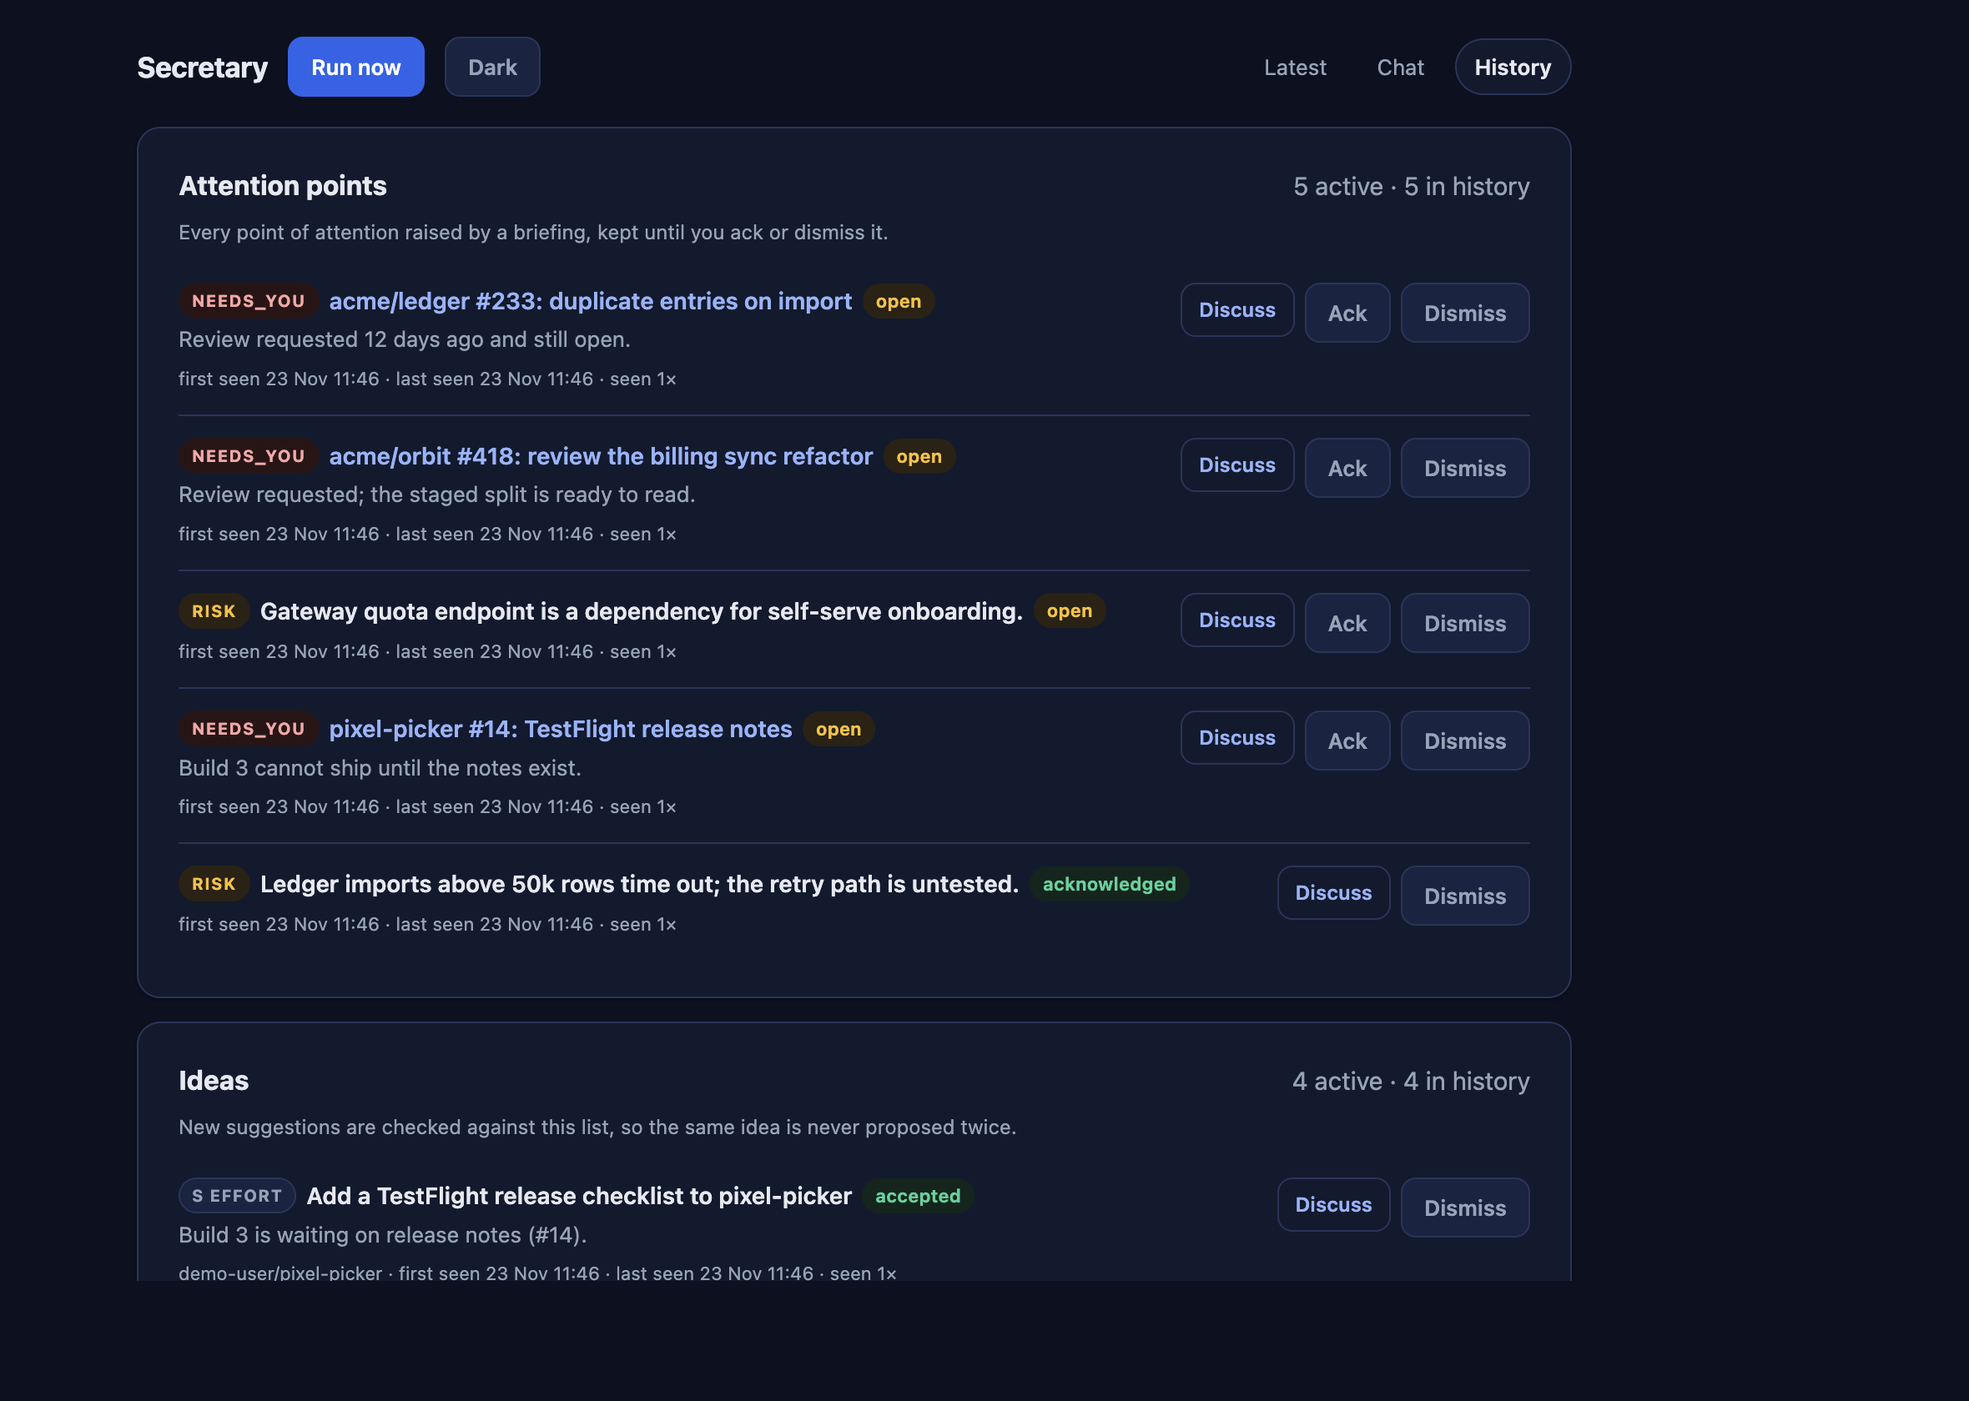
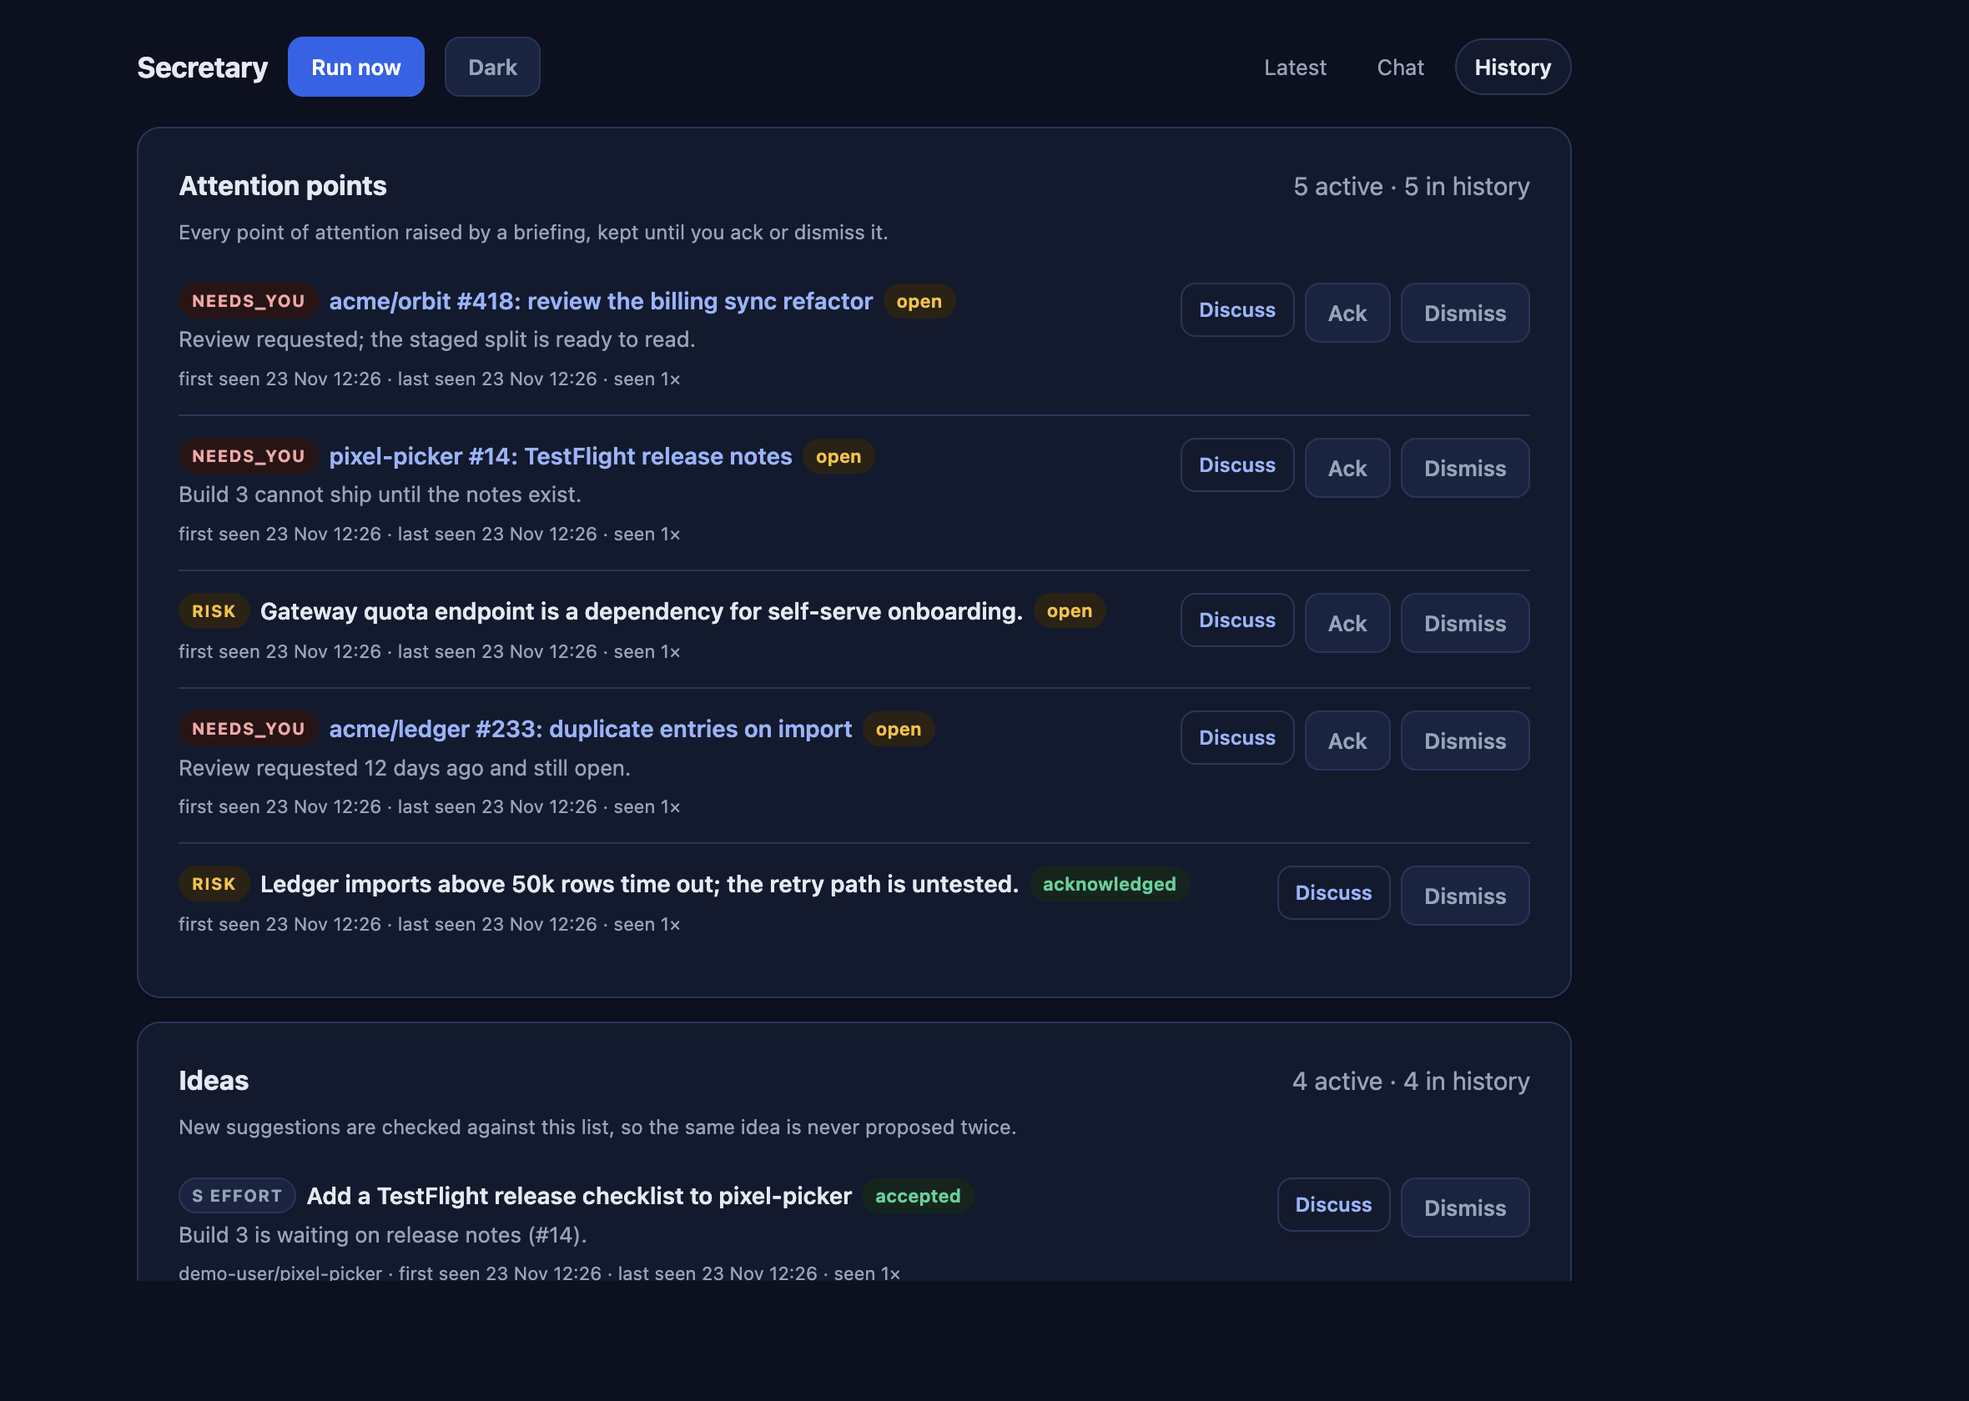
Make every briefing entry a conversation starter
Each needs-you row, project, idea, risk and next action now gets a Discuss
button that opens its own thread. Project/risk/action threads are stored as
topic files with a stable id derived from the text, so links survive a new
briefing; chat falls back to the current digest for older ones.

diff --git a/monitor/chat.py b/monitor/chat.py
@@ -18,8 +18,8 @@ Rules:
 - Be concise: one short paragraph or a few bullets, at most ~200 words. No praise, no filler.
 - Ground every statement in the provided context. If it is not there, say so; never invent
   PR/issue numbers, CI results, merge status or dates.
-- `focus` is what this thread is about (an idea, an alert, an item, or null for general chat).
-  Answer about it first, then widen to related work.
+- `focus` is what this thread is about (an idea, an alert, an item, a project, a risk or a
+  next action; null for general chat). Answer about it first, then widen to related work.
 - Alerts are the ongoing points of attention; ideas are tracked suggestions. Their status and
   history (first seen, last seen, how often) are in the context — use them.
 - Emit actions ONLY when he asks you to remember something. A question deserves no action.
@@ -42,7 +42,7 @@ def open_state(cfg):
 
 
 def parse_thread(thread: str) -> tuple[str, str]:
-    for prefix in ("item", "idea", "alert"):
+    for prefix in ("item", "idea", "alert", "topic"):
         if thread.startswith(prefix + ":"):
             return prefix, thread[len(prefix) + 1 :]
     return "general", ""
@@ -56,6 +56,8 @@ def thread_object(state, thread: str) -> dict | None:
         return state.idea(ref)
     if kind == "alert":
         return state.alert(ref)
+    if kind == "topic":
+        return state.topic(ref)
     return None
 
 
@@ -64,10 +66,15 @@ def thread_label(state, thread: str) -> str:
         return "General"
     kind, ref = parse_thread(thread)
     obj = thread_object(state, thread)
+    if obj is None and kind == "topic":
+        obj = topic_from_digest(_latest_digest(state), ref)
     if obj:
         title = (obj.get("title") or ref)[:80]
         if kind == "item":
             return f"{obj.get('repo')}#{obj.get('number')} · {title[:70]}"
+        if kind == "topic":
+            topic_kind = obj.get("kind") or ref.split(":", 1)[0]
+            return f"{topic_kind.title()} · {title}"
         return f"{kind.title()} · {title}"
     return f"{kind.title()} · {ref}"
 
@@ -140,9 +147,34 @@ def _trim_idea(record: dict) -> dict:
     }
 
 
+def topic_from_digest(payload: dict | None, ref: str) -> dict | None:
+    """Resolve a topic thread from the current briefing when no topic file exists yet."""
+    if not payload:
+        return None
+    digest = payload.get("digest") or {}
+    kind = ref.split(":", 1)[0]
+    if kind == "project":
+        for project in digest.get("projects") or []:
+            name = project.get("name") or "Project"
+            if store_mod.topic_key("project", name) == ref:
+                return {"kind": "project", "title": name, "payload": project, "seen_count": 1}
+    elif kind == "risk":
+        for risk in digest.get("risks") or []:
+            if store_mod.topic_key("risk", risk) == ref:
+                return {"kind": "risk", "title": risk, "payload": {"text": risk}, "seen_count": 1}
+    elif kind == "action":
+        for action in digest.get("next_actions") or []:
+            if store_mod.topic_key("action", action) == ref:
+                return {"kind": "action", "title": action, "payload": {"text": action}, "seen_count": 1}
+    return None
+
+
 def build_context(cfg, state, thread: str) -> dict:
     kind, ref = parse_thread(thread)
+    digest_payload = _latest_digest(state)
     focus = thread_object(state, thread)
+    if focus is None and kind == "topic":
+        focus = topic_from_digest(digest_payload, ref)
     repo = ""
     if focus:
         repo = focus.get("repo") or ""
@@ -153,17 +185,32 @@ def build_context(cfg, state, thread: str) -> dict:
         for message in state.messages(thread, limit=10)
         if message.get("status") == "ok"
     ]
+    focus_view = None
+    if focus:
+        if kind == "alert":
+            focus_view = {"kind": "alert", "record": _trim_alert(focus)}
+        elif kind == "idea":
+            focus_view = {"kind": "idea", "record": _trim_idea(focus)}
+        elif kind == "topic":
+            focus_view = {
+                "kind": focus.get("kind", "topic"),
+                "topic": focus.get("title"),
+                "seen_count": focus.get("seen_count"),
+                "payload": focus.get("payload") or {},
+            }
+            if focus.get("alert_id"):
+                alert_record = state.alert(focus["alert_id"])
+                if alert_record:
+                    focus_view["alert"] = _trim_alert(alert_record)
+        else:
+            focus_view = {"kind": kind, "record": focus}
     return {
         "now": store_mod.now_iso(),
         "login": cfg.get("identity.login"),
         "thread": thread,
-        "focus": (
-            {"kind": kind, "record": _trim_alert(focus) if kind == "alert" else _trim_idea(focus) if kind == "idea" else focus}
-            if focus
-            else None
-        ),
+        "focus": focus_view,
         "related_items": related,
-        "briefing": _trim_digest(_latest_digest(state)),
+        "briefing": _trim_digest(digest_payload),
         "open_items": [
             {
                 "key": row.get("key"),

diff --git a/monitor/render.py b/monitor/render.py
@@ -9,6 +9,8 @@ import re
 from datetime import datetime
 from urllib.parse import quote
 
+from .store import topic_key
+
 FONT = "-apple-system,BlinkMacSystemFont,'Segoe UI',Roboto,Helvetica,Arial,sans-serif"
 MONO = "ui-monospace,SFMono-Regular,Menlo,Consolas,monospace"
 
@@ -195,13 +197,20 @@ def _link(url: str, label: str, palette: dict, *, weight: str = "500") -> str:
     )
 
 
-def _thread_link(thread: str, palette: dict, label: str = "discuss") -> str:
+def _chip(thread: str, palette: dict, label: str = "Discuss") -> str:
     if not thread:
         return ""
     return (
-        f' <a href="/chat?thread={quote(thread, safe=":")}" style="color:{palette["muted"]};'
-        f'font-size:12px;font-weight:500;text-decoration:none;white-space:nowrap">{esc(label)}</a>'
+        f' <a href="/chat?thread={quote(thread, safe=":")}" style="display:inline-block;'
+        f'padding:3px 10px;border-radius:999px;border:1px solid {palette["line"]};'
+        f'background:{palette["surface"]};color:{palette["accent"]};font-size:12px;'
+        f'font-weight:600;text-decoration:none;white-space:nowrap;vertical-align:middle">'
+        f"{esc(label)}</a>"
     )
+
+
+def _topic_chip(kind: str, text: str, palette: dict) -> str:
+    return _chip(f"topic:{topic_key(kind, text)}", palette)
 
 
 def _item_thread(url: str) -> str:
@@ -299,7 +308,7 @@ def digest_body_html(digest: dict, meta: dict, *, palette: dict | None = None, i
                     if entry.get("alert_id")
                     else _item_thread(entry.get("link", ""))
                 )
-                discuss = _thread_link(thread, p)
+                discuss = _chip(thread, p)
             rows.append(
                 f'<div style="padding:9px 0;{border}">'
                 f'{_link(entry.get("link", ""), entry.get("title", ""), p, weight="600")}'
@@ -329,10 +338,15 @@ def digest_body_html(digest: dict, meta: dict, *, palette: dict | None = None, i
                 if bullets
                 else ""
             )
+            chip = (
+                _topic_chip("project", project.get("name") or "Project", p) if interactive else ""
+            )
             parts.append(
                 f'<div style="margin:0 0 16px;padding-left:12px;border-left:2px solid {p["line"]}">'
+                f'<div style="display:flex;align-items:baseline;justify-content:space-between;'
+                f'gap:10px;flex-wrap:wrap">'
                 f'<div style="font-weight:650;font-size:15px">{esc(project.get("name"))}</div>'
-                f"{status}{list_html}</div>"
+                f"{chip}</div>{status}{list_html}</div>"
             )
     else:
         parts.append(_empty("No project activity in this window.", p))
@@ -361,7 +375,7 @@ def digest_body_html(digest: dict, meta: dict, *, palette: dict | None = None, i
                     if idea.get("idea_id")
                     else _item_thread(idea.get("link", ""))
                 )
-                discuss = _thread_link(thread, p)
+                discuss = _chip(thread, p)
             parts.append(
                 f'<div style="border:1px solid {p["line"]};border-radius:10px;padding:12px 14px;'
                 f'margin:0 0 10px;background:{p["raise"]}">'
@@ -376,14 +390,22 @@ def digest_body_html(digest: dict, meta: dict, *, palette: dict | None = None, i
 
     if risks:
         parts.append(_section_title("Risks", len(risks), p, p["warn"]))
-        items = "".join(f'<li style="margin:4px 0">{esc(risk)}</li>' for risk in risks)
+        items = "".join(
+            f'<li style="margin:6px 0">{esc(risk)}'
+            f'{_topic_chip("risk", risk, p) if interactive else ""}</li>'
+            for risk in risks
+        )
         parts.append(
             f'<ul style="margin:0 0 0 18px;padding:0;font-size:14px;color:{p["body2"]}">{items}</ul>'
         )
 
     if actions:
         parts.append(_section_title("Next actions", len(actions), p))
-        items = "".join(f'<li style="margin:5px 0">{esc(action)}</li>' for action in actions)
+        items = "".join(
+            f'<li style="margin:6px 0">{esc(action)}'
+            f'{_topic_chip("action", action, p) if interactive else ""}</li>'
+            for action in actions
+        )
         parts.append(
             f'<ol style="margin:0 0 0 18px;padding:0;font-size:14px;color:{p["body2"]}">{items}</ol>'
         )

diff --git a/tests/test_monitor.py b/tests/test_monitor.py
@@ -328,6 +328,48 @@ class ChatTests(unittest.TestCase):
         self.assertEqual(chat.thread_label(self.store, f"alert:{alert_id}"), "Alert · Attention")
 
 
+class TopicTests(unittest.TestCase):
+    def setUp(self):
+        self.tmp = tempfile.TemporaryDirectory()
+        self.store = store.Store(pathlib.Path(self.tmp.name) / "store")
+
+    def tearDown(self):
+        self.tmp.cleanup()
+
+    def test_topic_key_is_stable_and_scoped_by_kind(self):
+        self.assertEqual(store.topic_key("project", "acme/orbit"), store.topic_key("project", "acme/orbit"))
+        self.assertNotEqual(store.topic_key("project", "x"), store.topic_key("risk", "x"))
+
+    def test_record_topic_counts_repeats(self):
+        first = self.store.record_topic("project", "acme/orbit", {"status_line": "a"})
+        second = self.store.record_topic("project", "acme/orbit", {"status_line": "b"})
+        self.assertEqual(first["id"], second["id"])
+        self.assertEqual(self.store.topic(first["id"])["seen_count"], 2)
+        self.assertEqual(self.store.topic(first["id"])["payload"]["status_line"], "b")
+
+    def test_topic_thread_label(self):
+        record = self.store.record_topic("risk", "Imports time out", {"text": "Imports time out"})
+        self.assertEqual(chat.thread_label(self.store, f"topic:{record['id']}"), "Risk · Imports time out")
+
+    def test_every_digest_item_gets_a_discuss_button(self):
+        digest = {
+            "headline": "h",
+            "needs_you": [{"title": "Review #1", "why": "w", "link": "", "alert_id": "20260101T000000-abcdef"}],
+            "projects": [{"name": "acme/orbit", "status_line": "s", "bullets": ["b"]}],
+            "ideas": [{"idea_id": "20260101T000000-123456", "title": "i", "area": "a", "why_now": "w", "effort": "S"}],
+            "risks": ["Imports time out"],
+            "next_actions": ["Review #1"],
+        }
+        meta = {"when": datetime(2026, 11, 23, 8, 0, tzinfo=timezone.utc), "counts": {}}
+        html = render.digest_body_html(digest, meta, palette=render.PAGE, interactive=True)
+        self.assertIn("thread=alert:20260101T000000-abcdef", html)
+        self.assertEqual(html.count("thread=topic:project:"), 1)
+        self.assertEqual(html.count("thread=topic:risk:"), 1)
+        self.assertEqual(html.count("thread=topic:action:"), 1)
+        self.assertEqual(html.count("thread=idea:20260101T000000-123456"), 1)
+        self.assertNotIn("Discuss", render.digest_body_html(digest, meta))
+
+
 class ThemeTests(unittest.TestCase):
     def test_titles_lead_with_secretary_and_boot_theme(self):
         html = render.page("Chat", "<p>x</p>", active="chat")

diff --git a/monitor/store.py b/monitor/store.py
@@ -17,7 +17,7 @@ import sqlite3
 from datetime import datetime, timezone
 
 ID_RE = re.compile(r"^[A-Za-z0-9_-]{4,80}$")
-SUBDIRS = ("ideas", "alerts", "notes", "runs", "chats")
+SUBDIRS = ("ideas", "alerts", "notes", "runs", "chats", "topics")
 
 
 def utcnow() -> datetime:
@@ -37,6 +37,15 @@ def _fingerprint(text: str) -> str:
         }
     )
     return hashlib.sha1(" ".join(tokens).encode("utf-8")).hexdigest()[:12]
+
+
+TOPIC_KINDS = ("project", "risk", "action")
+TOPIC_RE = re.compile(r"^(project|risk|action):[a-f0-9]{10}$")
+
+
+def topic_key(kind: str, text: str) -> str:
+    """Stable thread key for a briefing entry, derived from its text."""
+    return f"{kind}:{_fingerprint(kind + '|' + (text or ''))[:10]}"
 
 
 def _new_id(stamp: datetime, fingerprint: str, suffix: str = "") -> str:
@@ -326,6 +335,44 @@ class Store:
         record["status"] = status
         record["updated_at"] = now_iso()
         return self._save_alert(record)
+
+    # ---------------------------------------------------------------- topics
+    @property
+    def topics_dir(self) -> pathlib.Path:
+        return self.root / "topics"
+
+    def record_topic(self, kind: str, title: str, payload: dict, alert_id: str | None = None) -> dict:
+        key = topic_key(kind, title)
+        path = self.topics_dir / f"{key.replace(':', '-')}.json"
+        record = _read_json(path, None) or {
+            "id": key,
+            "kind": kind,
+            "title": title,
+            "payload": payload,
+            "alert_id": alert_id or "",
+            "created_at": now_iso(),
+            "seen_count": 0,
+        }
+        record.update({"title": title, "payload": payload, "last_seen": now_iso()})
+        record["seen_count"] = int(record.get("seen_count") or 0) + 1
+        if alert_id:
+            record["alert_id"] = alert_id
+        _write_json(path, record)
+        return record
+
+    def topic(self, key: str) -> dict | None:
+        if not TOPIC_RE.match(key or ""):
+            return None
+        return _read_json(self.topics_dir / f"{key.replace(':', '-')}.json", None)
+
+    def topics(self) -> list[dict]:
+        records = [
+            record
+            for record in (_read_json(path, {}) for path in self.topics_dir.glob("*.json"))
+            if record
+        ]
+        records.sort(key=lambda row: row.get("last_seen", ""), reverse=True)
+        return records
 
     # ---------------------------------------------------------------- notes
     def notes(self, limit: int = 10) -> list[dict]:

diff --git a/monitor/pipeline.py b/monitor/pipeline.py
@@ -131,6 +131,12 @@ def _run_once(
             record = by_title.get((entry.get("title") or "").strip())
             if record:
                 entry["alert_id"] = record["id"]
+        for project in briefing.get("projects") or []:
+            state.record_topic("project", project.get("name") or "Project", project)
+        for text, record in zip(briefing.get("risks") or [], alerts["risks"]):
+            state.record_topic("risk", text, {"text": text}, alert_id=record["id"])
+        for action in briefing.get("next_actions") or []:
+            state.record_topic("action", action, {"text": action})
 
         counts = {
             "new": len(diff["new"]),

diff --git a/scripts/make_demo.py b/scripts/make_demo.py
@@ -186,6 +186,13 @@ def main() -> None:
     }
 
     started = now - timedelta(minutes=3)
+    for project in digest["projects"]:
+        state.record_topic("project", project["name"], project)
+    for text, record in zip(risks, alerts["risks"]):
+        state.record_topic("risk", text, {"text": text}, alert_id=record["id"])
+    for action in digest["next_actions"]:
+        state.record_topic("action", action, {"text": action})
+
     run_id = state.start_run("demo", "demo-model", started)
     meta = {
         "when": now,

diff --git a/README.md b/README.md
@@ -18,10 +18,10 @@ the only network calls are to `gh`, your mail host and the model you choose.
 - **History that doesn't forget** — every point of attention and every idea is stored as
   its own file with first seen, last seen and a seen count. Acknowledge, dismiss or
   reopen it; nothing disappears when the next briefing arrives.
-- **Two-way chat** — every idea, alert and item has a **Discuss** link into its own chat
-  thread, grounded in that record plus the current briefing. Say "remember this idea: …"
-  and it joins the ledger; state a priority and it becomes a note that shapes future
-  briefings.
+- **Two-way chat** — every entry in the briefing (each needs-you row, project, idea, risk
+  and next action) has a **Discuss** button that opens its own thread, grounded in that
+  entry plus the current briefing. Say "remember this idea: …" and it joins the ledger;
+  state a priority and it becomes a note that shapes future briefings.
 - **Incremental and non-repeating** — PRs, issues and commits are diffed against the last
   run, and new ideas are checked against the ledger, so the same suggestion is never made
   twice (including close paraphrases).
